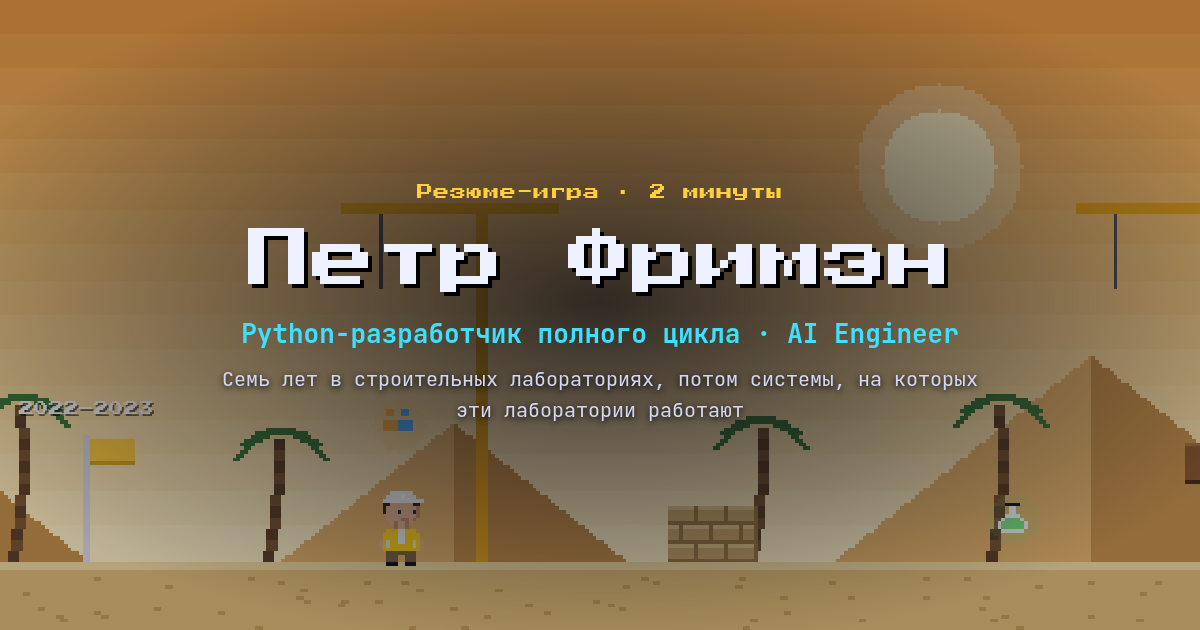
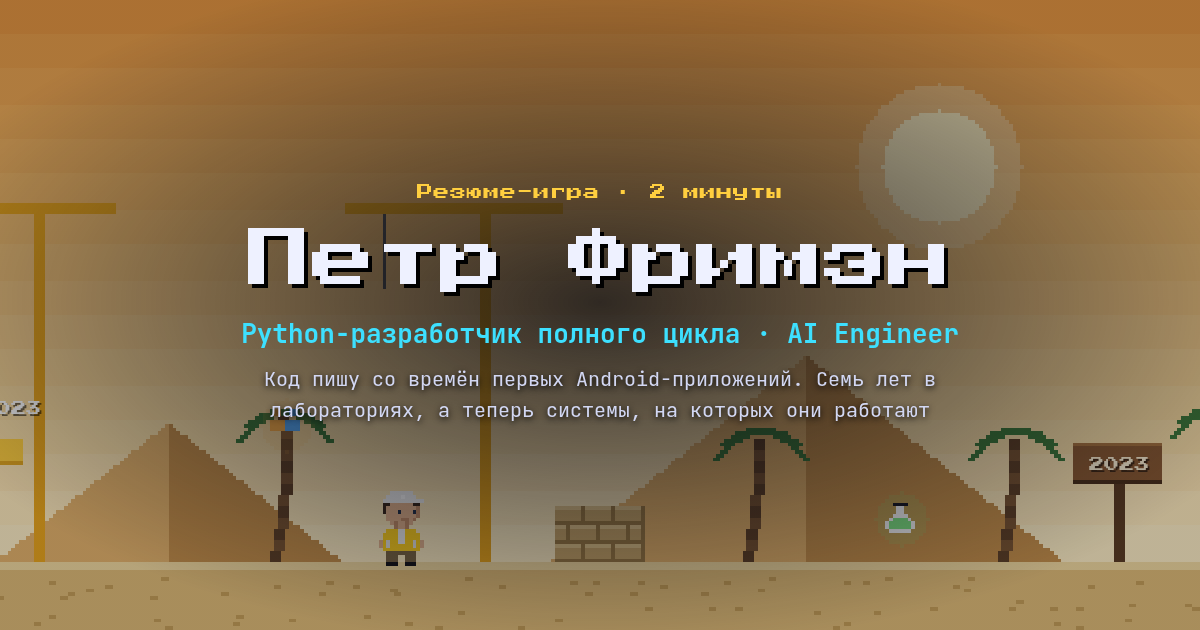
North chapter 2019-2020 (snow, aurora, parka), timeline fit, new pitch and cover

diff --git a/js/game.js b/js/game.js
@@ -86,6 +86,7 @@
   const TH = {
     kyiv: { sky: ['#1b1440', '#45286a', '#b8507a', '#f0a25a'], ground: ['#5d5d6c', '#45454f', '#8b8b99'], block: 'books' },
     site: { sky: ['#3b8bd0', '#69b2e6', '#a5d6f4', '#d6f0fb'], ground: ['#8a6a4a', '#6a4e34', '#a98b62'], block: 'cubes' },
+    north: { sky: ['#0e1b3d', '#24497a', '#6f9cc4', '#d7e6f2'], ground: ['#e6eef6', '#b8c8d8', '#ffffff'], block: 'ice' },
     qc: { sky: ['#56708e', '#7c94ae', '#a7b8ca', '#d0d9e2'], ground: ['#8f9196', '#6f7176', '#b4b6ba'], block: 'cubes' },
     egypt: { sky: ['#e3953f', '#f1b866', '#f7d595', '#fdedc3'], ground: ['#dfbb76', '#c59e57', '#f0d89e'], block: 'sand' },
     systems: { sky: ['#050a1a', '#0a1530', '#0f2147', '#15305e'], ground: ['#0c2442', '#081a31', '#3de0ff'], block: 'server', grid: true },
@@ -146,6 +147,39 @@
         const hx = x - 30 - Math.round(Math.sin(i + camX * 0.002) * 4);
         rect('#333', hx, top + 3, 1, 24); rect('#8a8f96', hx - 5, top + 27, 11, 6);
       });
+    },
+    north(camX) {
+      const t = performance.now() / 1000;
+      for (let x = 0; x < W; x += 2) { // aurora
+        const wx = x + camX * 0.03;
+        const y = 26 + Math.round(10 * Math.sin(wx * 0.02 + t * 0.4) + 5 * Math.sin(wx * 0.05 - t * 0.7));
+        alpha(0.12); rect('#b07aff', x, y - 6, 2, 6);
+        alpha(0.3); rect('#5cf2a8', x, y, 2, 14);
+        alpha(0.14); rect('#7affc8', x, y + 14, 2, 12);
+      }
+      alpha(1);
+      for (let x = 0; x < W; x += 2) { // snowy hills
+        const wx = x + camX * 0.12;
+        const y = GY - 26 - Math.round(12 * Math.sin(wx * 0.013) + 7 * Math.sin(wx * 0.037));
+        rect('#c9d8e6', x, y, 2, GY - y); rect('#ffffff', x, y, 2, 2);
+      }
+      tiles(camX, 0.45, 38, (i, x) => { // spruces under snow
+        if (hash(i * 13) < 0.25) return;
+        x += Math.floor(hash(i * 7) * 12);
+        const h = 26 + Math.floor(hash(i * 5) * 22), base = GY - 5;
+        rect('#3a2a1e', x - 1, base, 3, 5);
+        for (let r = 0; r < h; r++) {
+          const half = Math.floor(r * 0.32) + 1;
+          rect(r % 7 === 1 ? '#f4f8fb' : '#1f4a3c', x - half, base - h + r, half * 2 + 1, 1);
+        }
+      });
+      for (let k = 0; k < 60; k++) { // snowfall
+        const sp = 14 + hash(k * 5) * 18, big = hash(k) > 0.7 ? 2 : 1;
+        const x = ((hash(k * 3) * W * 2 - camX * 0.6 + Math.sin(t + k) * 6) % W + W) % W;
+        const y = (hash(k * 7) * GY + t * sp) % GY;
+        alpha(0.85); rect('#ffffff', x, y, big, big);
+      }
+      alpha(1);
     },
     qc(camX) {
       tiles(camX, 0.2, 28, (i, x) => {
@@ -261,6 +295,7 @@
   const COSTUME = {
     student: { T: '#3f7a5c', t: '#2f5e46', C: '#e8e8e8' },
     lab: { T: '#ff8a1f', t: '#e6e6e6', C: '#5a5f6a', helmet: { Y: '#ffb21f', y: '#ffe08a' } },
+    north: { T: '#c8402f', t: '#9a2e22', C: '#efe8d8', helmet: { Y: '#5a3b26', y: '#7a5236' } },
     qc: { T: '#2f6fd1', t: '#e6e6e6', C: '#f0f0f0', helmet: { Y: '#f2f2f2', y: '#ffffff' } },
     egypt: { T: '#ffd21f', t: '#e6e6e6', C: '#f0f0f0', P: '#7a6644', helmet: { Y: '#f2f2f2', y: '#ffffff' } },
     dev: { T: '#1f2a4a', t: '#151d36', C: '#f4f4f4' },
@@ -324,11 +359,12 @@
     crab: ['o......o', 'oo....oo', '.oooooo.', 'oowooowo', 'oooooooo', '.oooooo.', 'o.o..o.o', '........'],
     droid: ['g......g', '.g....g.', '..gggg..', '.gwggwg.', '.gggggg.', '........', '.gggggg.', '.gggggg.'],
     film: ['KKKKKKKK', 'KwKwKwKw', 'KrrrrrrK', 'KrrrrrrK', 'KrrrrrrK', 'KrrrrrrK', 'KwKwKwKw', 'KKKKKKKK'],
+    flake: ['l..l..l.', '.l.l.l..', '..lll...', 'lllwlll.', '..lll...', '.l.l.l..', 'l..l..l.', '........'],
     star: ['...yy...', '...yy...', 'yyyyyyyy', '.yyyyyy.', '..yyyy..', '.yy..yy.', 'yy....yy', '........'],
   };
   const ICON = {};
   for (const k in ICONS) ICON[k] = sprite(ICONS[k], IPAL);
-  const HALO = { scroll: '#ffe7a0', hammer: '#cfd6e0', flask: '#7ee081', gauge: '#ff9a7a', clip: '#ffffff', people: '#ffb24a', wave: '#7ee081', gear: '#7ee081', py: '#ffd43b', db: '#3de0ff', key: '#ffd43b', plane: '#5ab0ff', eye: '#3de0ff', brain: '#ff8ad8', chip: '#3de0ff', bot: '#3de0ff', crab: '#f07a3a', droid: '#7ee081', film: '#ff6a6a', star: '#ffd43b' };
+  const HALO = { scroll: '#ffe7a0', hammer: '#cfd6e0', flask: '#7ee081', gauge: '#ff9a7a', clip: '#ffffff', people: '#ffb24a', wave: '#7ee081', gear: '#7ee081', py: '#ffd43b', db: '#3de0ff', key: '#ffd43b', plane: '#5ab0ff', eye: '#3de0ff', brain: '#ff8ad8', chip: '#3de0ff', bot: '#3de0ff', crab: '#f07a3a', droid: '#7ee081', film: '#ff6a6a', flake: '#cfe8ff', star: '#ffd43b' };
 
   const BUG = [
     sprite(['..K....K..', '...K..K...', '.RRRRRRRR.', 'RRwRRRRwRR', 'RRRRKKRRRR', '.RRRRRRRR.', '.K.K..K.K.'], { K: '#1a1a24', R: '#e0483c', w: '#ffffff' }),
@@ -720,6 +756,13 @@
           rect('#7a7a76', cx, cy + 9, 10, 1); rect('#7a7a76', cx + 9, cy, 1, 10); rect('#d14b3a', cx + 3, cy + 3, 2, 1);
         }
         break;
+      case 'ice':
+        for (let cy = GY - 10; cy >= y; cy -= 10) for (let cx = x; cx < x + b.w; cx += 10) {
+          rect('#9fc3dc', cx, cy, 10, 10); rect('#d6ecf8', cx, cy, 10, 1); rect('#d6ecf8', cx, cy, 1, 10);
+          rect('#6f97b4', cx, cy + 9, 10, 1); rect('#6f97b4', cx + 9, cy, 1, 10); rect('#ffffff', cx + 2, cy + 2, 2, 1);
+        }
+        rect('#ffffff', x - 1, y - 2, b.w + 2, 3); rect('#dfe9f2', x, y + 1, b.w, 1);
+        break;
       case 'sand':
         for (let cy = GY - 5, r = 0; cy >= y; cy -= 5, r++) for (let cx = x - (r % 2 ? 4 : 0); cx < x + b.w; cx += 8) {
           const sx = Math.max(cx, x), sw = Math.min(cx + 8, x + b.w) - sx;
@@ -866,7 +909,7 @@
   world.chapters.forEach((C, i) => {
     const seg = document.createElement('button');
     seg.className = 'tl-seg'; seg.style.flexGrow = String(C.x1 - C.x0);
-    seg.innerHTML = '<span>' + C.short + '</span>';
+    seg.innerHTML = '<span>' + C.short.replace(/^(20)(\d\d)$/, '<i>$1</i>$2') + '</span>'; // "20" hides on narrow screens
     seg.title = C.years + ' · ' + C.title;
     seg.setAttribute('aria-label', 'Перейти: ' + C.years + ', ' + C.title);
     seg.addEventListener('click', () => jumpTo(i));
@@ -998,7 +1041,8 @@
   // ?cover renders the social preview image (title over the 'systems' chapter)
   if (new URLSearchParams(location.search).has('cover')) {
     document.body.classList.add('cover');
-    P.x = 2430; P.costume = 'egypt'; cam.x = P.x - lead();
+    const eg = world.chapters.find((c) => c.id === 'egypt') || world.chapters[0];
+    P.x = eg.x0 + 210; P.costume = 'egypt'; cam.x = P.x - lead();
     world.stats.forEach((s) => { s.t = 5; });
     const draw = () => { resize(); render(); };
     draw(); setTimeout(draw, 300);

diff --git a/js/data.js b/js/data.js
@@ -49,7 +49,7 @@ window.RESUME = {
     },
     {
       id: 'site', theme: 'site', costume: 'lab',
-      years: '2017–2020', short: '2017', title: 'Стройплощадка и лаборатория',
+      years: '2017–2019', short: '2017', title: 'Стройплощадка и лаборатория',
       beats: [
         { t: 'sign', text: '2017' },
         { t: 'card', year: '2017–2019', title: 'От техника до инженера-лаборанта',
@@ -68,9 +68,15 @@ window.RESUME = {
         { t: 'block', w: 10, h: 20 },
         { t: 'item', icon: 'clip', label: 'Протоколы испытаний' },
         { t: 'item', icon: 'gear', label: 'Скрипты для рутины', hi: false },
-        { t: 'sign', text: '2019' },
+      ],
+    },
+    {
+      id: 'north', theme: 'north', costume: 'north',
+      years: '2019–2020', short: '2019', title: 'Север: своя лаборатория',
+      beats: [
+        { t: 'sign', text: 'СЕВЕР' },
         { t: 'card', year: '2019–2020', title: 'Начальник строительной лаборатории',
-          place: 'Лаборатория подрядчика',
+          place: 'Лаборатория подрядчика, Север',
           lines: [
             'Команда: задачи, должностные инструкции, планы на год, квартал и месяц',
             'Разбирал потери на переделку и устранял причины дефектов',
@@ -78,7 +84,8 @@ window.RESUME = {
           ] },
         { t: 'item', icon: 'people', label: 'Руководство командой' },
         { t: 'block', w: 20, h: 10 },
-        { t: 'item', icon: 'gear', label: 'Процессы и качество', hi: false },
+        { t: 'item', icon: 'flake', label: 'Работа в условиях Севера', hi: false },
+        { t: 'item', icon: 'gear', label: 'Процессы и качество' },
       ],
     },
     {
@@ -194,7 +201,7 @@ window.RESUME = {
           lines: [
             'Claude Code — основной инструмент: веду несколько задач, план и код проверяю сам',
             'Свой LLM-сервер на llama.cpp и агент с инструментами: терминал, файлы, браузер, MCP',
-            'За последний год: Android-клиент, Rust, видео и анимация кодом',
+            'Пробую новое: пишу на Rust, делаю Android-приложения, собираю видео и анимацию из кода',
           ],
           tags: ['Claude Code', 'llama.cpp', 'MCP', 'Rust', 'Android'] },
         { t: 'item', icon: 'chip', label: 'Свой LLM-сервер' },
@@ -258,7 +265,7 @@ window.RESUME = {
       {
         period: '2019 — 2020',
         title: 'Начальник строительной лаборатории',
-        place: 'Лаборатория подрядчика',
+        place: 'Лаборатория подрядчика, Север',
         points: [
           'Планирование работы отдела, должностные инструкции, анализ потерь на переделку',
           'Внедрение современных методов испытаний и контроля качества',

diff --git a/css/style.css b/css/style.css
@@ -109,13 +109,14 @@ button:focus-visible, a:focus-visible { outline: 2px solid var(--gold); outline-
 .skill-last.pop { animation: skill .6s; }
 @keyframes skill { 0% { color: var(--gold); transform: translateY(-3px); } 100% { color: var(--muted); } }
 
-.timeline { position: relative; order: 2; flex: 1 1 240px; display: flex; gap: 2px; height: 34px; min-width: 240px; overflow: hidden; }
+.timeline { position: relative; order: 2; flex: 1 1 340px; display: flex; gap: 2px; height: 34px; min-width: 340px; overflow: hidden; }
 .hud-btns { order: 3; display: flex; gap: 6px; }
 .tl-seg {
-  position: relative; z-index: 1; flex-basis: 0; min-width: 30px; background: rgba(255, 255, 255, 0.04);
+  position: relative; z-index: 1; flex-basis: 0; min-width: 40px; background: rgba(255, 255, 255, 0.04);
   border: 1px solid var(--line); border-radius: 4px; padding: 0; color: var(--muted);
   font-family: var(--pixel); font-size: 9px; display: flex; align-items: center; justify-content: center; overflow: hidden;
 }
+.tl-seg i { font-style: normal; }
 .tl-seg:hover { border-color: var(--accent); color: #fff; }
 .tl-seg.cur { color: #fff; border-color: var(--gold); }
 .tl-fill { position: absolute; z-index: 0; left: 0; top: 0; bottom: 0; width: 0; background: linear-gradient(90deg, rgba(61,224,255,.2), rgba(255,79,216,.26)); border-radius: 4px; pointer-events: none; }
@@ -200,7 +201,9 @@ button:focus-visible, a:focus-visible { outline: 2px solid var(--gold); outline-
   .hud { flex-wrap: wrap; gap: 8px; }
   .hud-skills { flex: 1 1 auto; font-size: 13px; }
   .timeline { order: 4; flex-basis: 100%; height: 40px; }
-  .tl-seg { font-size: 10px; }
+  .tl-seg { font-size: 10px; min-width: 30px; }
+  .tl-seg i { display: none; }
+  .timeline { min-width: 0; }
   .hbtn { min-height: 40px; min-width: 42px; padding: 4px 9px; font-size: 15px; }
   .hbtn .lbl { display: none; }
   #btnAuto { font-size: 13px; }
@@ -238,6 +241,7 @@ button:focus-visible, a:focus-visible { outline: 2px solid var(--gold); outline-
   .hbtn { min-height: 34px; }
   .timeline { height: 32px; min-width: 120px; }
   .tl-seg { min-width: 28px; font-size: 8px; }
+  .tl-seg i { display: none; }
 }
 
 /* ---------- text résumé ---------- */

diff --git a/index.html b/index.html
@@ -18,7 +18,7 @@
   <link rel="preconnect" href="https://fonts.googleapis.com">
   <link rel="preconnect" href="https://fonts.gstatic.com" crossorigin>
   <link href="https://fonts.googleapis.com/css2?family=JetBrains+Mono:wght@400;600;700&family=Press+Start+2P&display=swap&subset=cyrillic" rel="stylesheet">
-  <link rel="stylesheet" href="css/style.css?v=20261109h">
+  <link rel="stylesheet" href="css/style.css?v=20261109l">
 </head>
 <body>
   <main class="app">
@@ -60,7 +60,7 @@
               <p class="kicker">Уровень пройден</p>
               <h1>Петр Фримэн</h1>
               <p class="role">Python-разработчик полного цикла · AI Engineer</p>
-              <p class="pitch">Превращаю ручную работу в системы, которыми пользуются каждый день. Готов делать это в вашей команде.</p>
+              <p class="pitch">Превращаю ручную работу в системы, которыми пользуются каждый день. После Севера и Египта знаю цену тёплой команды — надеюсь, ваша именно такая.</p>
               <p class="end-stats" id="endStats"></p>
               <div class="end-skills" id="endSkills"></div>
               <div class="screen-btns">
@@ -117,9 +117,9 @@
   </dialog>
 
   <noscript><p style="color:#fff;padding:16px">Для игры нужен JavaScript.</p></noscript>
-  <script src="js/data.js?v=20261109h"></script>
-  <script src="js/audio.js?v=20261109h"></script>
-  <script src="js/cv.js?v=20261109h"></script>
-  <script src="js/game.js?v=20261109h"></script>
+  <script src="js/data.js?v=20261109l"></script>
+  <script src="js/audio.js?v=20261109l"></script>
+  <script src="js/cv.js?v=20261109l"></script>
+  <script src="js/game.js?v=20261109l"></script>
 </body>
 </html>

diff --git a/js/audio.js b/js/audio.js
@@ -16,6 +16,7 @@ window.Sound = (() => {
   const CHAPTER = [
     { key: 0, lead: 'triangle', hats: 0 },
     { key: 2, lead: 'square', hats: 1 },
+    { key: 3, lead: 'triangle', hats: 1 },
     { key: 4, lead: 'square', hats: 1 },
     { key: 5, lead: 'square', hats: 1 },
     { key: 7, lead: 'square', hats: 2 },
